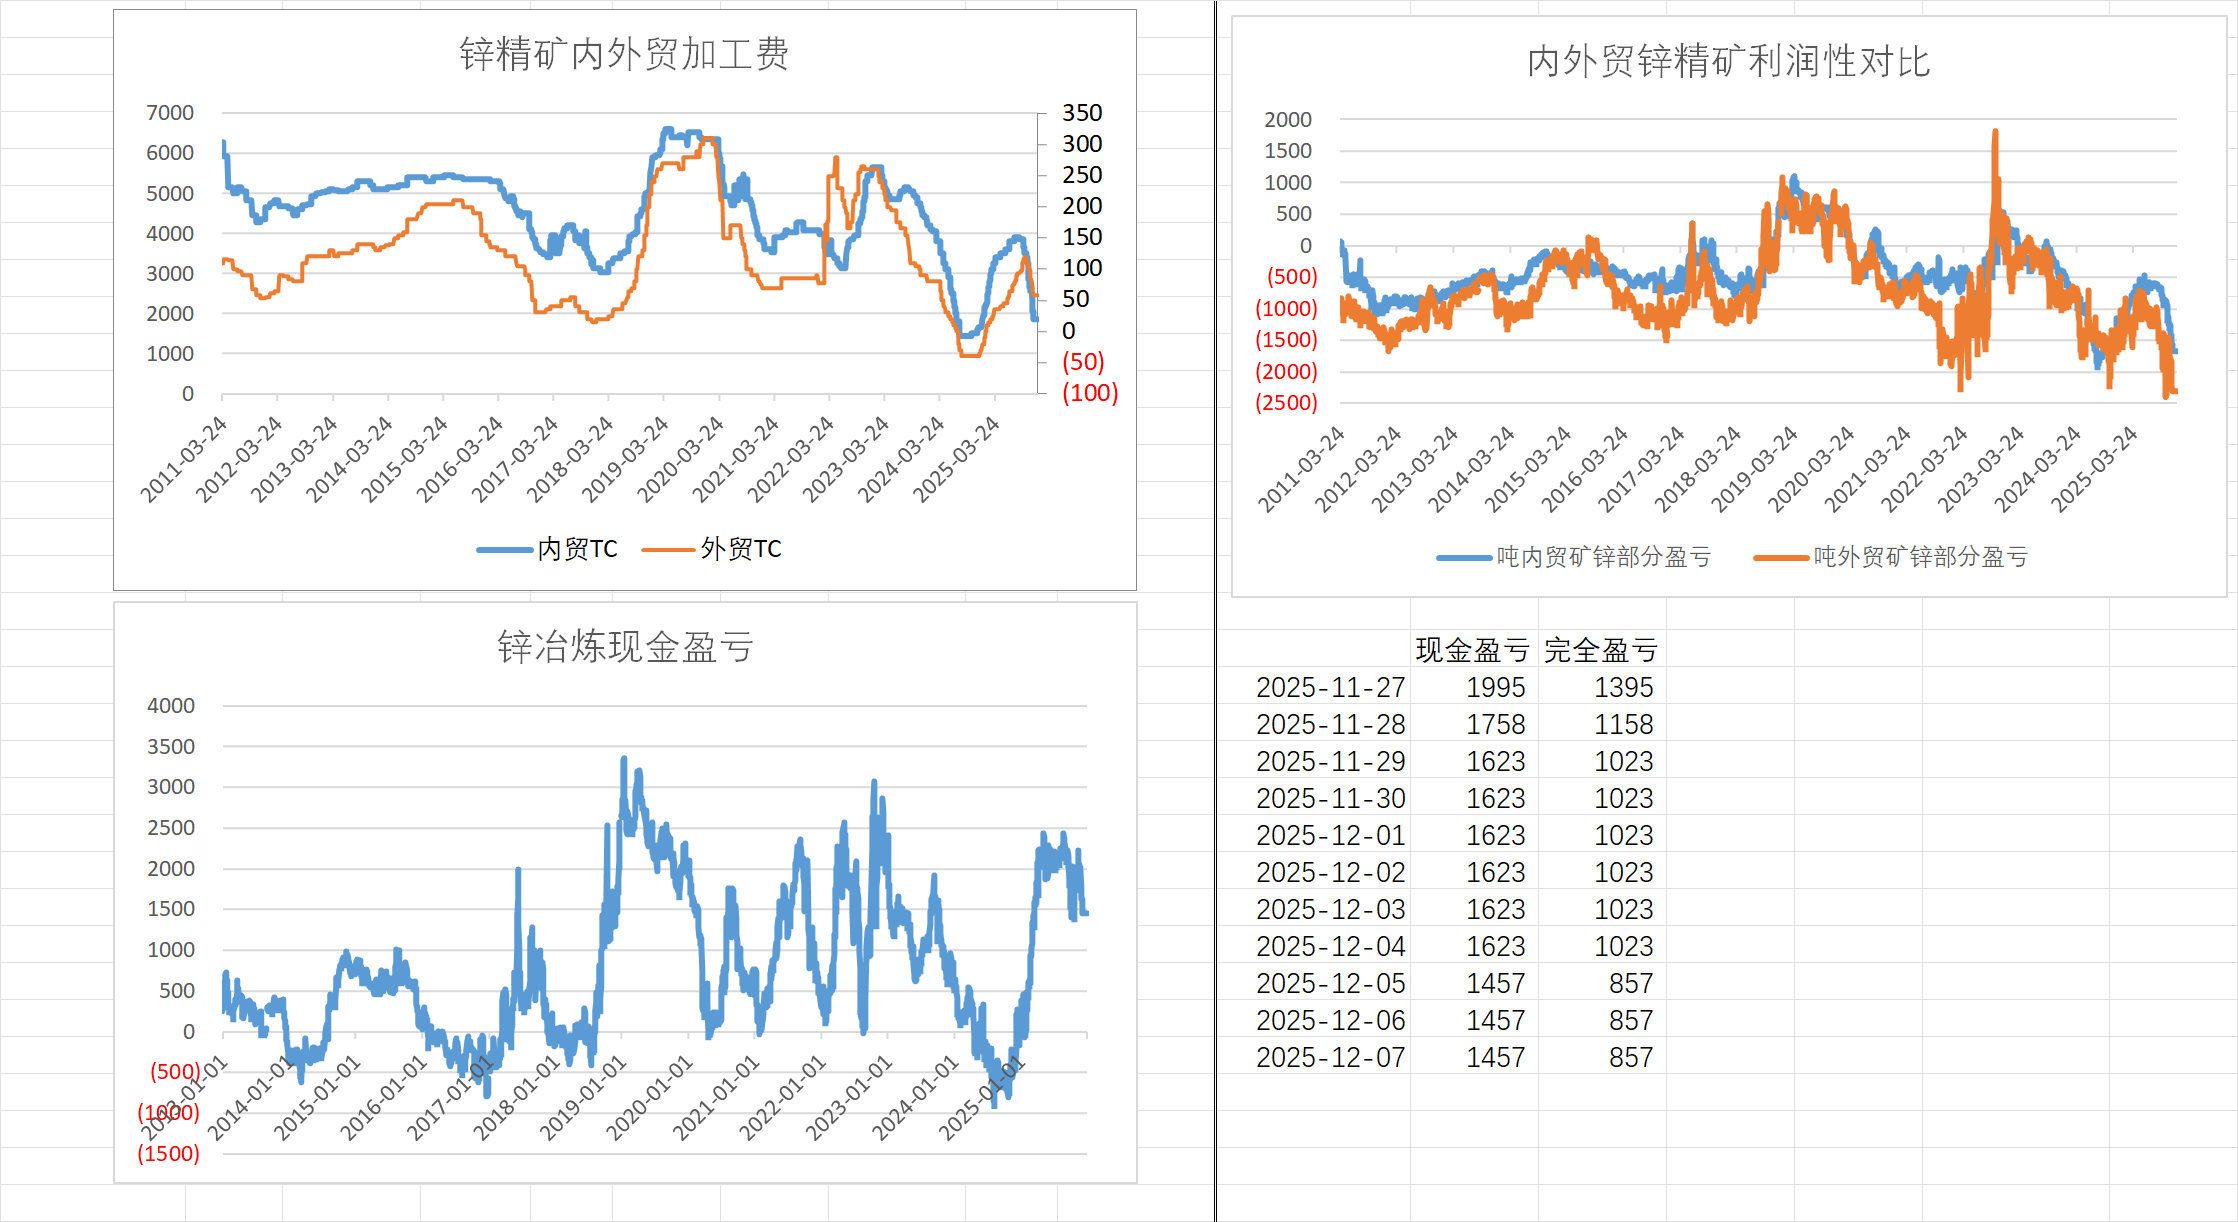
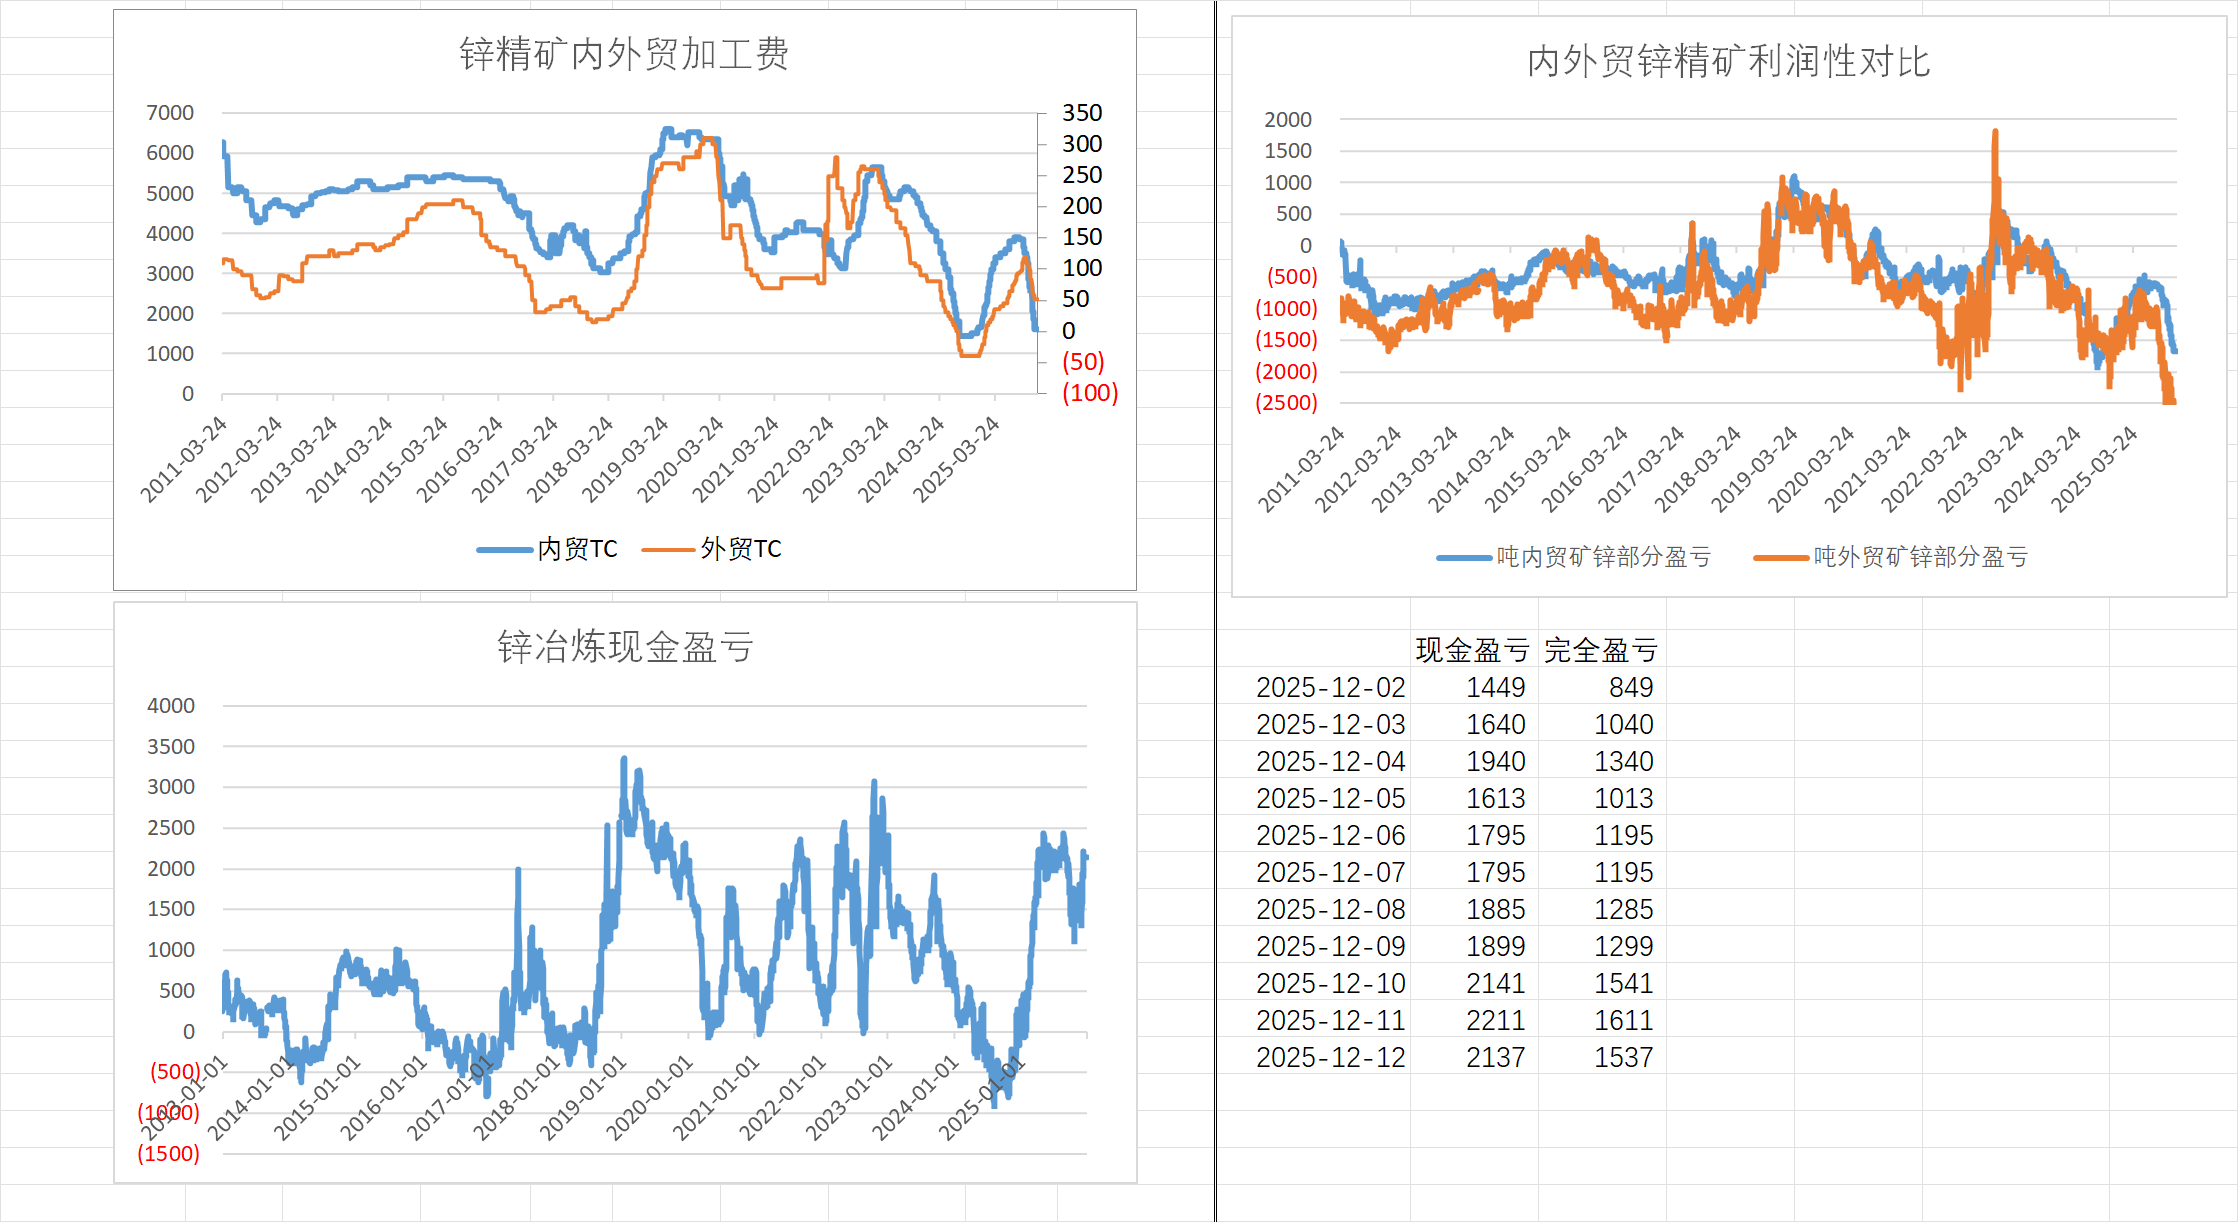
LAPTOP-KRS16UJL 2025-12-14:23:21:12

diff --git a/锌分析20251214.md b/锌分析20251214.md
@@ -1,18 +1,18 @@
 ## 总结
 
 
-- 策略：<font color = red>做空LME3100-3200建仓，目标2800以内。加工费（**内贸持续下降**，**外贸继续有所下调**）导致冶炼利润收窄（但仍然较往年中值仍高250每吨，整体大厂仍有利润主要因为高硫酸和银价，小厂基本mei'you），LME结构100b以上震荡，多头控盘不撤，国内据了解12月出口1-2wt，本周继续看到LME交仓继续体现，中期看海外冶炼边际复产LME低库存有望解决。</font>安泰科预计明年供应+30w，需求+20w。
+- 策略：<font color = red>做空LME3100-3200建仓，目标2800以内。加工费（**内贸持续下降**，**外贸继续有所下调**）导致冶炼利润收窄（但仍然较往年中值仍高250每吨，整体大厂仍有利润主要因为高硫酸和银价，小厂基本没有利润），LME结构100b以上震荡，多头控盘不撤，国内据了解12月出口1-2wt，本周继续看到LME交仓继续体现，中期看海外冶炼边际复产LME低库存有望解决。</font>安泰科预计明年供应+30w，需求+20w。
 - 主要矛盾：目前过剩矛盾收窄，加工费受冬季补库和银价飙升回落，现阶段港口锌精矿库存高于往年同期，锌锭受出口带动国内去库回到季节性：**考虑到绝对价格和加工费相关性最强，目前谨慎做空。
 
 - - **国内加工费出现边际回落，目前国产TC最高1800到厂，1600附近是主流成交区间，2000加工费在300硫酸下（具备较强综合回收能力的大厂）现金流利润打平，小厂3000打平，因此目前加工费仅在锌价快速下跌时期冶炼产量扰动概率大，震荡下行期间扰动小。产量从25年5月份之后开始同比开始转正。
 
  
-- 周度数据更新：<font color = red>**本周去库-8k，去库基本符合季节性；LME库存+4.7k，本周有5k交仓体现**</font>
-- - **锌精矿港口库存环比-0.7w至27.9w，同比+9w，近几周库存基本平衡**。
+- 周度数据更新：<font color = red>**本周去库-12k，去库基本符合季节性；LME库存+6k，本周有较多交仓体现**</font>
+- - **锌精矿港口库存环比-3.6w至23.5w，同比+3.8w，近几周库存开始去库**。
 - - 海关数据显示1-10月进口锌精矿来源国：俄罗斯和刚果均有流入，10月澳矿来的少。
 - - **SMM国产TC 下调十二月（月度）-1000至2000；<font color = red>SMM周度tc-250至1600，但是成交区域间不平衡；SMM进口TC-7.19至50.56。**</font>
 - - LME锌库存+6.5k，新增注销仓单+0k，**本周继续看到交仓体现**。
-- - **镀锌板卷开工率周环比+1.0%至66.1%，但成品库存去化不及季节性*
+- - **镀锌板卷开工率周环比+0.6%至67%，成品库存开始加速去化*
 
 - - 消息面：**出口量级2w：紫金5-10k，南方4k，中金岭南4k，豫光3k；<font color = red>火烧云冶炼出产慢于预期，冶炼炉还是有问题，本周听说10k招标有成交，先款后货**</font>；万洋7月9k，8月15k-20k，9月20k；云铜已经爬产完。
 
